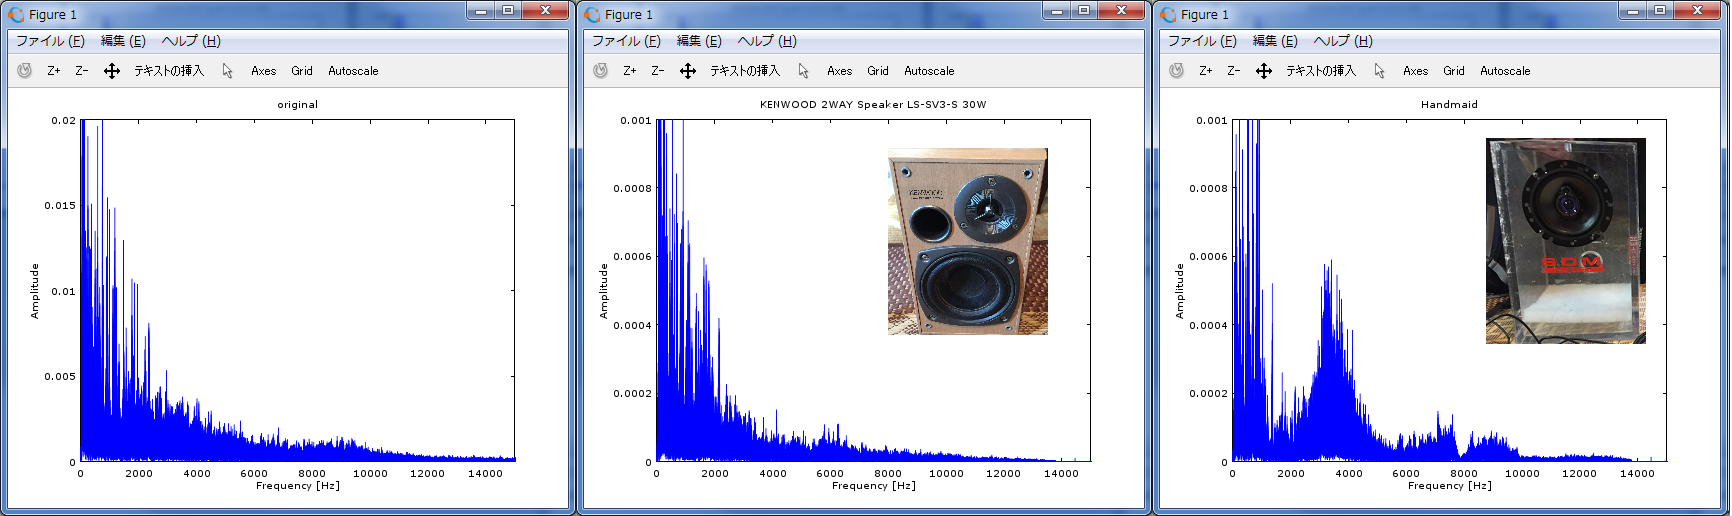
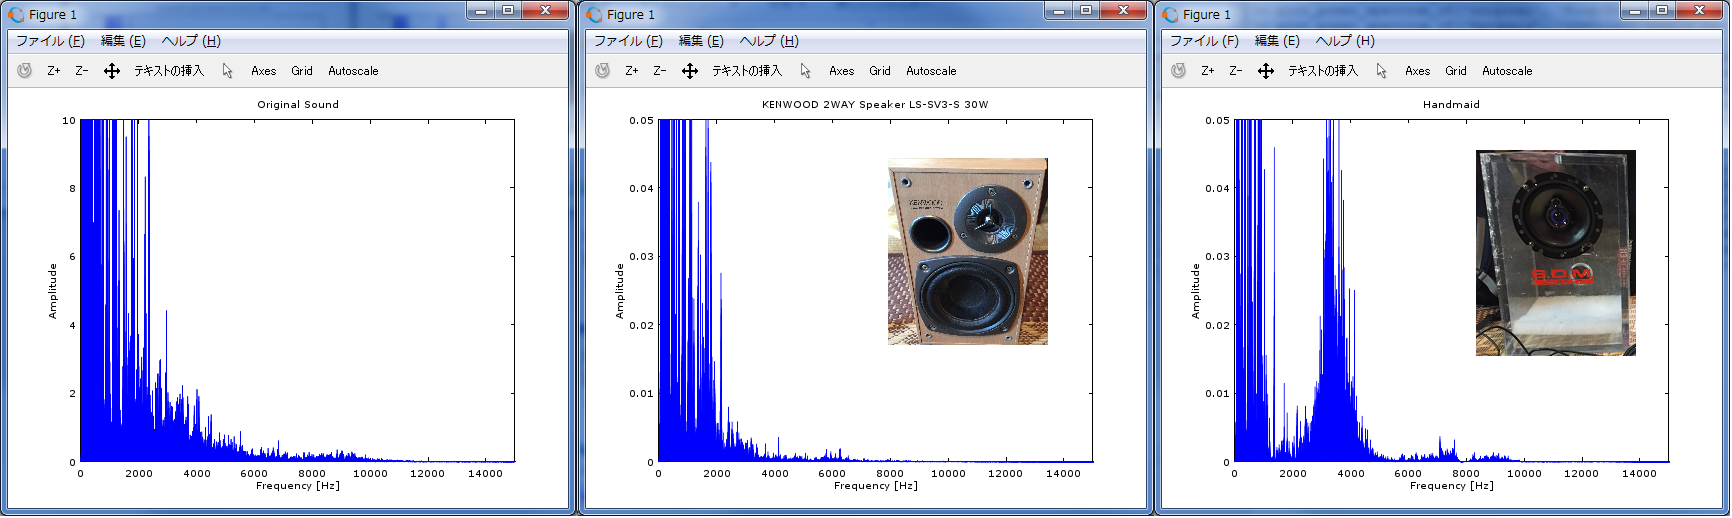
Fix some bug plot_power_spectrum

diff --git a/plot_power_spectrum/plot_power_spectrum_of.m b/plot_power_spectrum/plot_power_spectrum_of.m
@@ -19,6 +19,6 @@ function plot_power_spectrum_of(title_str, filename, y_axis_max)
   axis([0 15000 0 y_axis_max]);
   xlabel('Frequency [Hz]');
   ylabel('Amplitude');
-  plot(f0, 2*abs(y0(n/2:n-1,:))/n);
+  plot(f0, 2*abs(power_y0(n/2:n-1,:))/n);
   hold off;
 end
